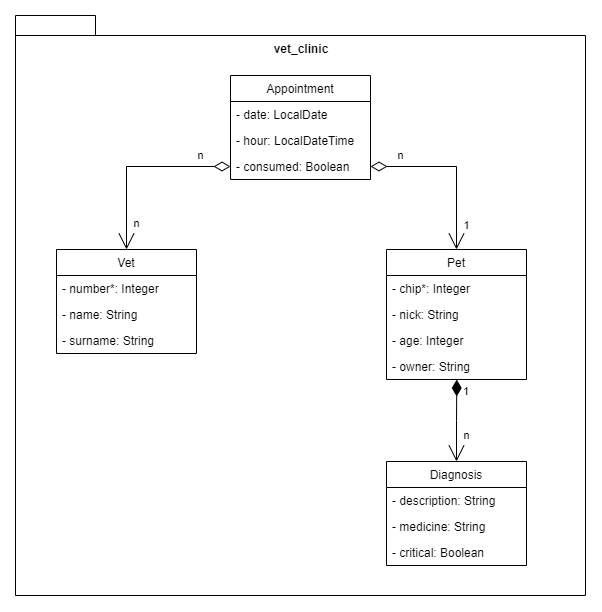
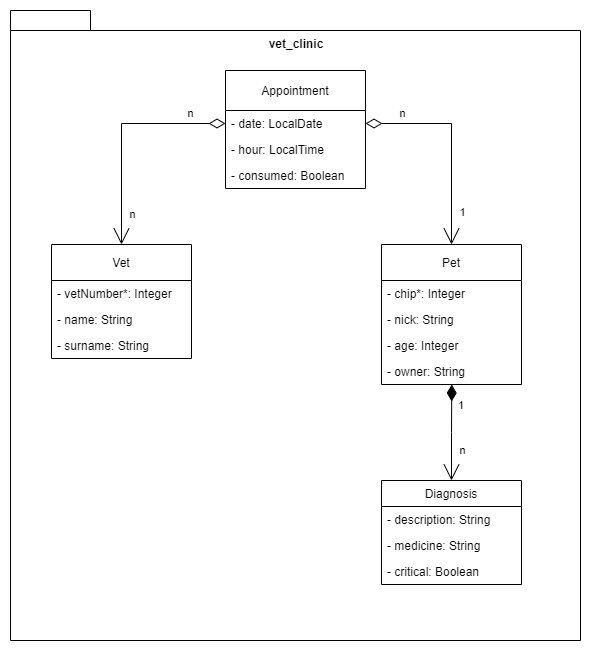
changed vetclinic uml & fixed errors #6

Changed region(s): [[0.0, 0.0, 0.9746, 0.9935], [0.6396, 0.2794, 0.8832, 0.9314], [0.0914, 0.2794, 0.335, 0.5899]]

diff --git a/src/main/java/es/upm/miw/apaw_practice/domain/models/vet_clinic/Appointment.java b/src/main/java/es/upm/miw/apaw_practice/domain/models/vet_clinic/Appointment.java
@@ -1,21 +1,26 @@
 package es.upm.miw.apaw_practice.domain.models.vet_clinic;
 
 import java.time.LocalDate;
-import java.time.LocalDateTime;
+import java.time.LocalTime;
+import java.util.List;
 
 public class Appointment {
     private LocalDate date;
-    private LocalDateTime hour;
+    private LocalTime hour;
     private Boolean consumed;
+    private Pet pet;
+    private List<Vet> vets;
 
     public Appointment(){
         //empty for framework
     }
 
-    public Appointment(LocalDate date, LocalDateTime hour, Boolean consumed){
+    public Appointment(LocalDate date, LocalTime hour, Boolean consumed, Pet pet, List<Vet> vets){
         this.date = date;
         this.hour = hour;
         this.consumed = consumed;
+        this.pet = pet;
+        this.vets = vets;
     }
 
     public LocalDate getDate() {
@@ -26,11 +31,11 @@ public class Appointment {
         this.date = date;
     }
 
-    public LocalDateTime getHour() {
+    public LocalTime getHour() {
         return hour;
     }
 
-    public void setHour(LocalDateTime hour) {
+    public void setHour(LocalTime hour) {
         this.hour = hour;
     }
 
@@ -42,13 +47,30 @@ public class Appointment {
         this.consumed = consumed;
     }
 
+    public Pet getPet() {
+        return pet;
+    }
+
+    public void setPet(Pet pet) {
+        this.pet = pet;
+    }
+
+    public List<Vet> getVets() {
+        return vets;
+    }
+
+    public void setVets(List<Vet> vets) {
+        this.vets = vets;
+    }
+
     @Override
     public String toString() {
         return "Appointment{" +
                 "date=" + date +
-                ", hour=" + hour + '\'' +
+                ", hour=" + hour +
                 ", consumed=" + consumed +
+                ", pet=" + pet +
+                ", vets=" + vets +
                 '}';
     }
-
 }

diff --git a/src/main/java/es/upm/miw/apaw_practice/domain/models/vet_clinic/Pet.java b/src/main/java/es/upm/miw/apaw_practice/domain/models/vet_clinic/Pet.java
@@ -1,20 +1,24 @@
 package es.upm.miw.apaw_practice.domain.models.vet_clinic;
 
+import java.util.List;
+
 public class Pet {
     private Integer chip;
     private Integer age;
     private String nick;
     private String owner;
+    private List<Diagnosis> diagnosis;
 
     public Pet(){
       //empty for framework
     }
 
-    public Pet(Integer chip, Integer age, String nick, String owner) {
+    public Pet(Integer chip, Integer age, String nick, String owner, List<Diagnosis> diagnosis) {
         this.chip = chip;
         this.age = age;
         this.nick = nick;
         this.owner = owner;
+        this.diagnosis = diagnosis;
     }
 
     public Integer getChip() {
@@ -49,6 +53,14 @@ public class Pet {
         this.owner = owner;
     }
 
+    public List<Diagnosis> getDiagnosis() {
+        return diagnosis;
+    }
+
+    public void setDiagnosis(List<Diagnosis> diagnosis) {
+        this.diagnosis = diagnosis;
+    }
+
     @Override
     public String toString() {
         return "Pet{" +
@@ -56,6 +68,7 @@ public class Pet {
                 ", age=" + age +
                 ", nick='" + nick + '\'' +
                 ", owner='" + owner + '\'' +
+                ", diagnosis=" + diagnosis +
                 '}';
     }
 }

diff --git a/src/main/java/es/upm/miw/apaw_practice/domain/models/vet_clinic/Vet.java b/src/main/java/es/upm/miw/apaw_practice/domain/models/vet_clinic/Vet.java
@@ -1,7 +1,7 @@
 package es.upm.miw.apaw_practice.domain.models.vet_clinic;
 
 public class Vet {
-    private Integer number;
+    private Integer vetNumber;
     private String name;
     private String surname;
 
@@ -9,18 +9,18 @@ public class Vet {
         //empty for framework
     }
 
-    public Vet(Integer number, String name, String surname){
-        this.number = number;
+    public Vet(Integer vetNumber, String name, String surname){
+        this.vetNumber = vetNumber;
         this.name = name;
         this.surname = surname;
     }
 
-    public Integer getNumber() {
-        return number;
+    public Integer getVetNumber() {
+        return vetNumber;
     }
 
-    public void setNumber(Integer number) {
-        this.number = number;
+    public void setVetNumber(Integer vetNumber) {
+        this.vetNumber = vetNumber;
     }
 
     public String getName() {
@@ -42,7 +42,7 @@ public class Vet {
     @Override
     public String toString() {
         return "Vet{" +
-                "number=" + number +
+                "vet number=" + vetNumber +
                 ", name='" + name + '\'' +
                 ", surname='" + surname + '\'' +
                 '}';
